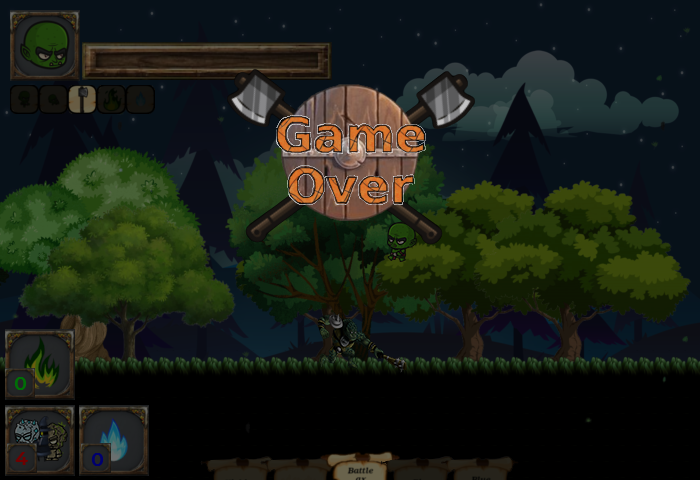
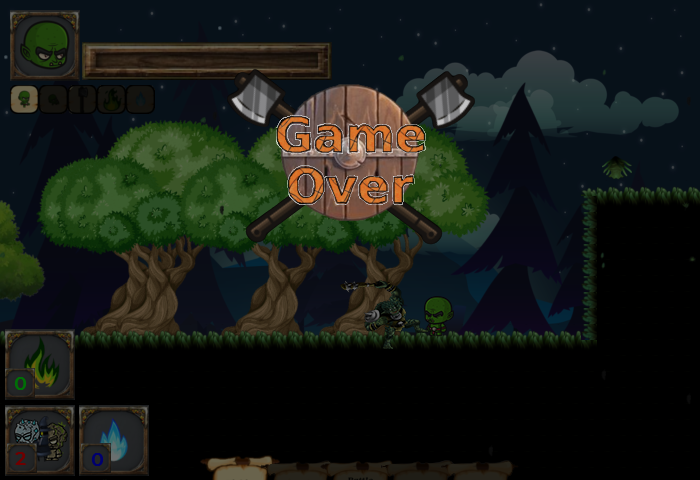
Code review and fixing a little bug.

diff --git a/data/menus/__init__.py b/data/menus/__init__.py
@@ -193,17 +193,20 @@ class Menus(object):
             os.chdir('users/'+self.user)
                 # os.remove('data.txt')
             file = open('data.txt', 'w')
-            if self.nivel != 3:
+            if self.nivel < 3:
                 self.nivel += 1
                 #          nivel      Position   Initial Life
                 if(self.nivel == 1):
                     file.write(str(self.nivel)+' '+str(500)+' '+str(88)+' '+str(218)+' '+str(0)+' '+str(5)+' '+str(0))
                 elif(self.nivel == 2):
                     file.write(str(self.nivel)+' '+str(500)+' '+str(440)+' '+str(218)+' '+str(0)+' '+str(10)+' '+str(5))
-                os.chdir('../..')
+                else:
+                    file.write(str(self.nivel)+' '+str(500)+' '+str(120)+' '+str(218)+' '+str(0)+' '+str(10)+' '+str(5))
+                
                 self.complet = not self.complet
             else:
                 file.write(str(self.nivel)+' '+str(self.player_rect.x)+' '+str(self.player_rect.y)+' '+str(self.qtlife)+' '+str(self.enimysKilled+self.currentenimysKilled)+' '+str(self.greenFire)+' '+str(self.blueFire))
+            os.chdir('../..')
             file.close()
             self.getUpdateUserData()
             # restarting the game whit new data

diff --git a/data/gameplay/enimy/__init__.py b/data/gameplay/enimy/__init__.py
@@ -161,11 +161,11 @@ class ControlEnimys(object):
                             enimy.sufferingDamage(0.2)
                         elif(playerAttack[2] == "battleax"):
                             enimy.sufferingDamage(0.8)
-                
-            elif(position[0] < scroll[0]-450):
+
+            elif self.nivel == 3 and position[0] < scroll[0]-350:
                 self.allEnimys.pop(i)
                 self.allEnimysPosition.pop(i)
-            if self.nivel == 3 and position[0] < scroll[0]-350:
+            elif(position[0] < scroll[0]-450):
                 self.allEnimys.pop(i)
                 self.allEnimysPosition.pop(i)
             i += 1
